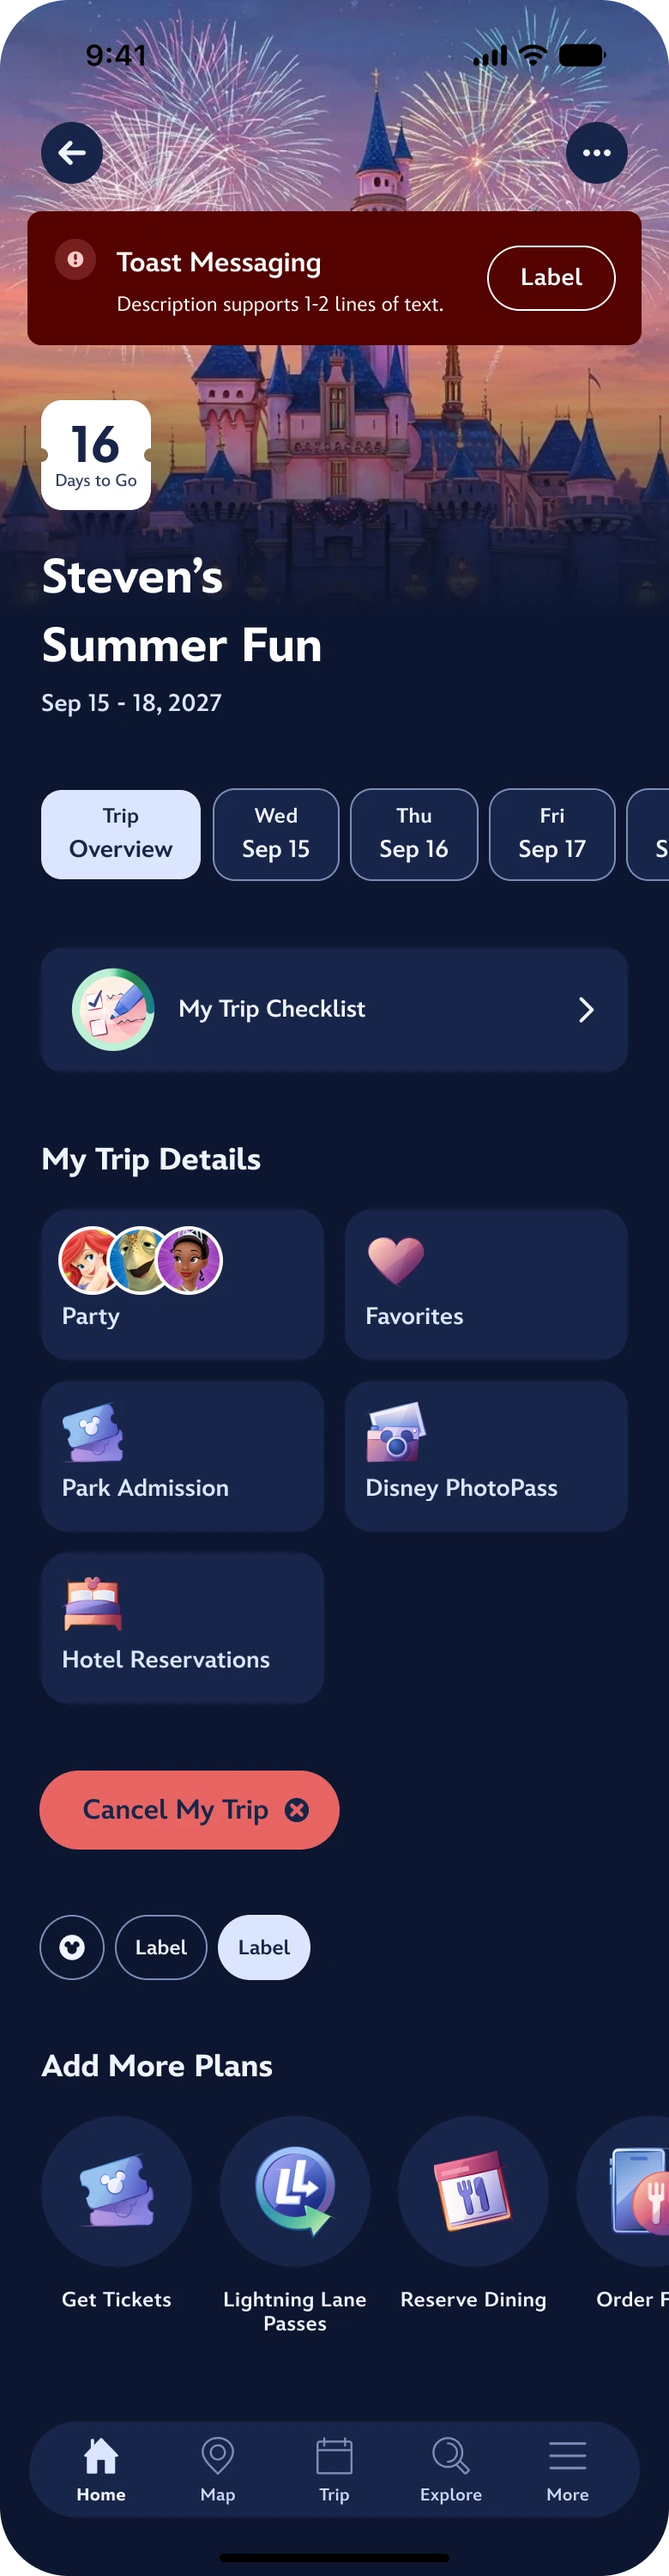
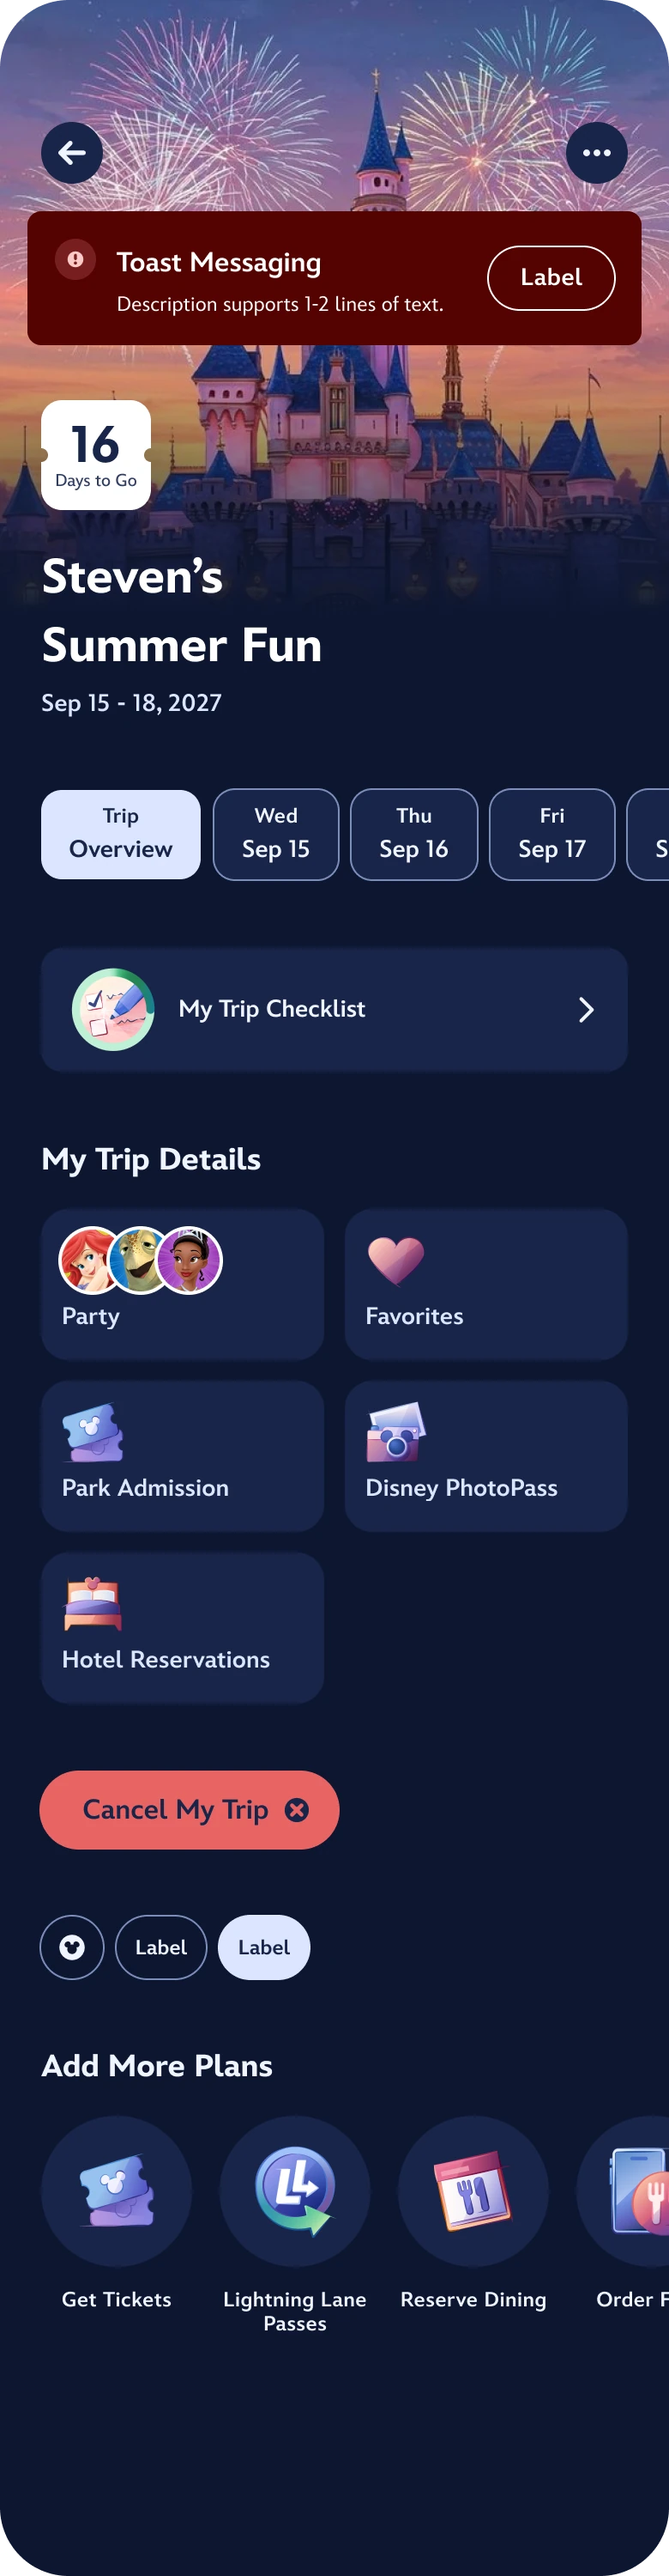
Disney phones: new screens without nav, pinned iOS status bar
Claude-Session: https://claude.ai/code/session_01QtBBYLn9H1tRY41einoAmH

diff --git a/work/disney-dark-mode.html b/work/disney-dark-mode.html
@@ -27,7 +27,7 @@
 </header>
 <main class="cs">
   <section class="cs-row cs-intro">
-    <div class="cs-media"><button class="shot phones-shot" type="button" aria-label="View Light and dark, side by side larger"><div class="phones" role="img" aria-label="Trip home screen in light and dark mode, scrolling side by side"><figure class="phone"><figcaption>Light</figcaption><div class="screen-wrap"><div class="screen"><img class="scroll" src="../images/disney/screen-light.webp" alt=""><img class="tabs tl" src="../images/disney/tabs-light.webp" alt=""><span class="island"></span><span class="home-ind"></span></div></div></figure><figure class="phone"><figcaption>Dark</figcaption><div class="screen-wrap"><div class="screen"><img class="scroll" src="../images/disney/screen-dark.webp" alt=""><img class="tabs td" src="../images/disney/tabs-dark.webp" alt=""><span class="island"></span><span class="home-ind"></span></div></div></figure></div><span class="note" hidden><strong>Light and dark, side by side</strong><p>The trip home screen in both themes, scrolling together with the tab bar pinned, so you can compare how surfaces, cards, type and brand colors carry over from light to dark.</p></span></button></div>
+    <div class="cs-media"><button class="shot phones-shot" type="button" aria-label="View Light and dark, side by side larger"><div class="phones" role="img" aria-label="Trip home screen in light and dark mode, scrolling side by side"><figure class="phone"><figcaption>Light</figcaption><div class="screen-wrap"><div class="screen"><img class="scroll" src="../images/disney/screen-light.webp" alt=""><img class="tabs tl" src="../images/disney/tabs-light.webp" alt=""><span class="status-bg"></span><img class="status st-top" src="../images/disney/status-light-text.webp" alt=""><img class="status st-scrolled" src="../images/disney/status-dark-text.webp" alt=""><span class="island"></span><span class="home-ind"></span></div></div></figure><figure class="phone"><figcaption>Dark</figcaption><div class="screen-wrap"><div class="screen"><img class="scroll" src="../images/disney/screen-dark.webp" alt=""><img class="tabs td" src="../images/disney/tabs-dark.webp" alt=""><span class="status-bg"></span><img class="status st-top" src="../images/disney/status-light-text.webp" alt=""><img class="status st-scrolled" src="../images/disney/status-light-text.webp" alt=""><span class="island"></span><span class="home-ind"></span></div></div></figure></div><span class="note" hidden><strong>Light and dark, side by side</strong><p>The trip home screen in both themes, scrolling together with the tab bar pinned, so you can compare how surfaces, cards, type and brand colors carry over from light to dark.</p></span></button></div>
     <div class="cs-text">
       <h1>Disney parks app dark mode</h1>
       <div class="lead"><p>Exploring a dark theme for Disney&#x27;s parks app, built into the Vista design system so every screen and component can switch with its tokens.</p></div>

diff --git a/assets/styles.css b/assets/styles.css
@@ -542,6 +542,14 @@ a.ext::after { content: " \2197"; font-size: .9em; }
 .screen .tabs { position: absolute; max-width: none !important; max-height: none !important; height: auto !important; }
 .screen .td { left: calc(34 * var(--u)); bottom: calc(68 * var(--u)); width: calc(712 * var(--u)) !important; }
 .screen .tl { left: calc(-14 * var(--u)); bottom: calc(4 * var(--u)); width: calc(808 * var(--u)) !important; }
+.screen .status-bg { position: absolute; top: 0; left: 0; right: 0; height: calc(124 * var(--u)); opacity: 0; animation: status-bg 20s infinite; }
+.tl ~ .status-bg { background: rgb(250 252 255 / .96); }
+.td ~ .status-bg { background: rgb(13 22 48 / .96); }
+.screen .st-scrolled { opacity: 0; animation: status-bg 20s infinite; }
+/* the bar fills in once the hero scrolls under it, like a real app; dark-on-light text swaps in */
+@keyframes status-bg { 0%, 9% { opacity: 0; } 13%, 92% { opacity: 1; } 96%, 100% { opacity: 0; } }
+@media (prefers-reduced-motion: reduce) { .screen .status-bg, .screen .st-scrolled { animation: none; } }
+.screen .status { position: absolute; top: 0; left: 0; width: 100% !important; max-width: none !important; max-height: none !important; height: auto !important; }
 .screen .island { position: absolute; top: calc(24 * var(--u)); left: 50%; width: calc(250 * var(--u)); height: calc(72 * var(--u)); transform: translateX(-50%); border-radius: 999px; background: #000; }
 .screen .home-ind { position: absolute; bottom: calc(18 * var(--u)); left: 50%; width: calc(268 * var(--u)); height: calc(10 * var(--u)); transform: translateX(-50%); border-radius: 99px; background: #000; }
 @keyframes phone-scroll {

diff --git a/build.py b/build.py
@@ -508,13 +508,13 @@ def build_project(p):
             ph = p.get("phones")
             if ph and src == ph["src"]:
                 # light and dark screens in phone frames, scrolling together, tab bars pinned (pure HTML/CSS, transparent)
-                def phone(name, scr, tabs, cls):
+                def phone(name, scr, tabs, cls, status):
                     return (f'<figure class="phone"><figcaption>{name}</figcaption><div class="screen-wrap"><div class="screen">'
                             f'<img class="scroll" src="{pre}{scr}" alt="">'
-                            f'<img class="tabs {cls}" src="{pre}{tabs}" alt=""><span class="island"></span><span class="home-ind"></span>'
+                            f'<img class="tabs {cls}" src="{pre}{tabs}" alt=""><span class="status-bg"></span><img class="status st-top" src="{pre}{ph["status_dark"]}" alt=""><img class="status st-scrolled" src="{pre}{status}" alt=""><span class="island"></span><span class="home-ind"></span>'
                             f'</div></div></figure>')
                 inner = (f'<div class="phones" role="img" aria-label="Trip home screen in light and dark mode, scrolling side by side">'
-                         f'{phone("Light", ph["light"], ph["tabs_light"], "tl")}{phone("Dark", ph["dark"], ph["tabs_dark"], "td")}</div>')
+                         f'{phone("Light", ph["light"], ph["tabs_light"], "tl", ph["status_light"])}{phone("Dark", ph["dark"], ph["tabs_dark"], "td", ph["status_dark"])}</div>')
                 return (f'<button class="shot phones-shot" type="button" aria-label="View {label} larger">{inner}{note_html(src)}</button>')
             return (f'<button class="shot{" long" if long else ""}" type="button" aria-label="View {label} larger">'
                     f'{media(src, alt, vids, pre)}{note_html(src)}</button>')

diff --git a/content.py b/content.py
@@ -187,7 +187,9 @@ UX = [{'slug': 'disney-dark-mode',
              'light': 'images/disney/screen-light.webp',
              'dark': 'images/disney/screen-dark.webp',
              'tabs_light': 'images/disney/tabs-light.webp',
-             'tabs_dark': 'images/disney/tabs-dark.webp'}},
+             'tabs_dark': 'images/disney/tabs-dark.webp',
+             'status_light': 'images/disney/status-dark-text.webp',
+             'status_dark': 'images/disney/status-light-text.webp'}},
  {'slug': 'asbestos-com',
   'title': 'Asbestos.com homepage',
   'type': 'UX and web design',
